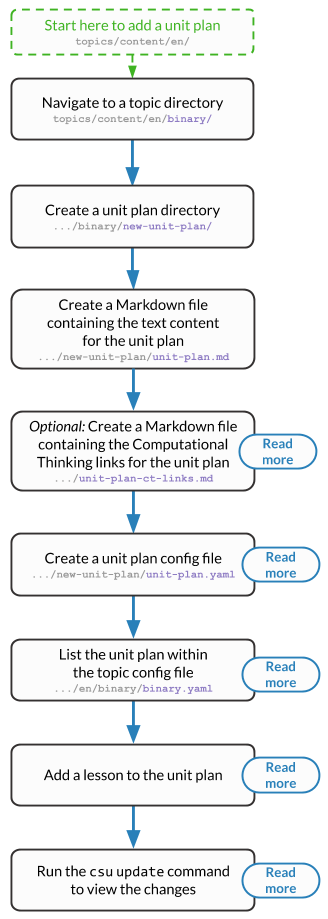
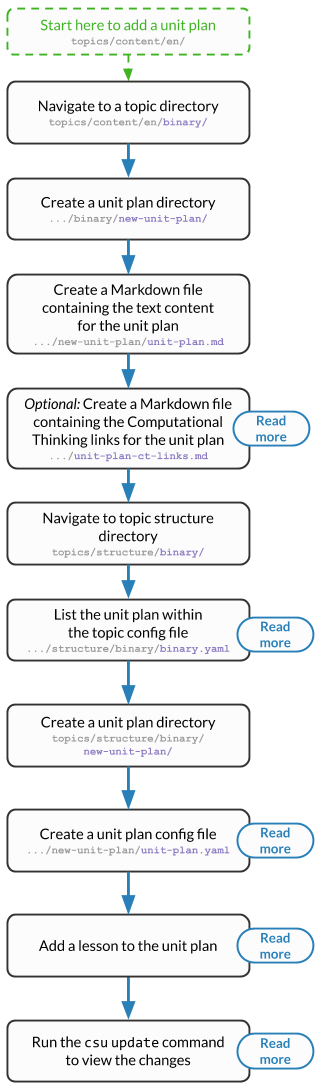
Updated adding a unit plan flowchart

Changed region(s): [[0.0, 0.0, 0.9877, 1.0]]

diff --git a/docs/source/author/topics.rst b/docs/source/author/topics.rst
@@ -210,11 +210,11 @@ Adding a Unit Plan
 .. raw:: html
 
   <map name="unit-plan-map">
-    <area shape="rect" coords="240,435,317,468" href="#unit-plan-configuration-file">
-    <area shape="rect" coords="240,547,317,581" href="#unit-plan-configuration-file">
-    <area shape="rect" coords="240,658,317,692" href="#topic-configuration-file">
-    <area shape="rect" coords="240,758,317,792" href="#adding-a-lesson">
-    <area shape="rect" coords="240,864,317,896" href="../getting_started/helper_commands.html#update">
+    <area shape="rect" coords="233,410,309,445" href="#unit-plan-configuration-file">
+    <area shape="rect" coords="233,616,309,650" href="#topic-configuration-file">
+    <area shape="rect" coords="233,823,309,857" href="#unit-plan-configuration-file">
+    <area shape="rect" coords="233,928,309,962" href="#adding-a-lesson">
+    <area shape="rect" coords="233,1034,309,1068" href="../getting_started/helper_commands.html#update">
   </map>
   <img src="../_static/img/topics_adding_unit_plan_flowchart.png" usemap="#unit-plan-map">
 
